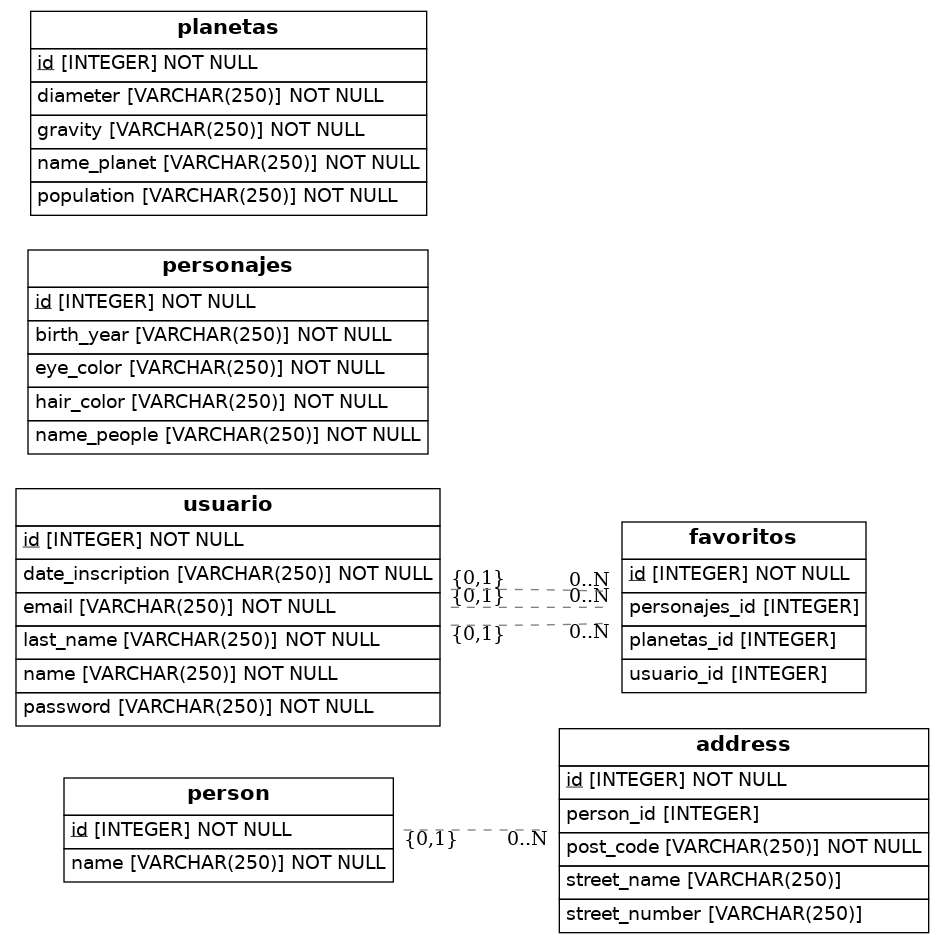
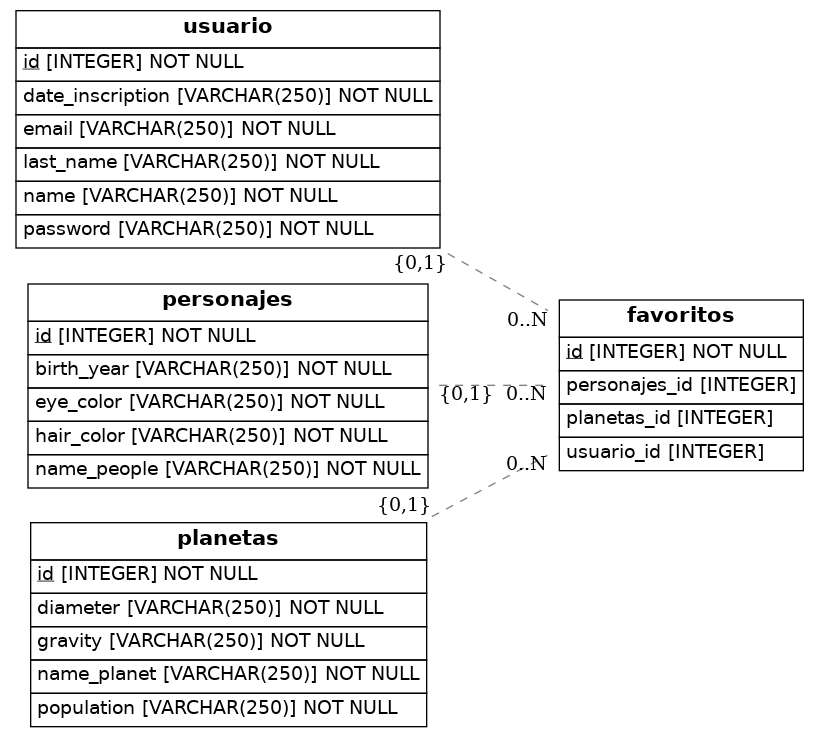
finish

Changed region(s): [[0.0, 0.0, 1.0, 0.9986], [0.5189, 0.4993, 0.58, 0.5617], [0.4884, 0.2809, 0.5495, 0.3745]]

diff --git a/src/models.py b/src/models.py
@@ -6,27 +6,6 @@ from sqlalchemy import create_engine
 from eralchemy2 import render_er
 
 Base = declarative_base()
-
-class Person(Base):
-    __tablename__ = 'person'
-    # Here we define columns for the table person
-    # Notice that each column is also a normal Python instance attribute.
-    id = Column(Integer, primary_key=True)
-    name = Column(String(250), nullable=False)
-
-class Address(Base):
-    __tablename__ = 'address'
-    # Here we define columns for the table address.
-    # Notice that each column is also a normal Python instance attribute.
-    id = Column(Integer, primary_key=True)
-    street_name = Column(String(250))
-    street_number = Column(String(250))
-    post_code = Column(String(250), nullable=False)
-    person_id = Column(Integer, ForeignKey('person.id'))
-    person = relationship(Person)
-
-    def to_dict(self):
-        return {}
     
 class Usuario(Base):
     __tablename__ = 'usuario'
@@ -64,9 +43,9 @@ class Favoritos(Base):
     id = Column(Integer, primary_key=True)
     usuario_id = Column(Integer, ForeignKey('usuario.id'))
     usuario = relationship(Usuario)
-    personajes_id = Column(Integer, ForeignKey('usuario.id'))
+    personajes_id = Column(Integer, ForeignKey('personajes.id'))
     personajes = relationship(Personajes)
-    planetas_id = Column(Integer, ForeignKey('usuario.id'))
+    planetas_id = Column(Integer, ForeignKey('planetas.id'))
     planetas = relationship(Planetas)
   
     def to_dict(self):
